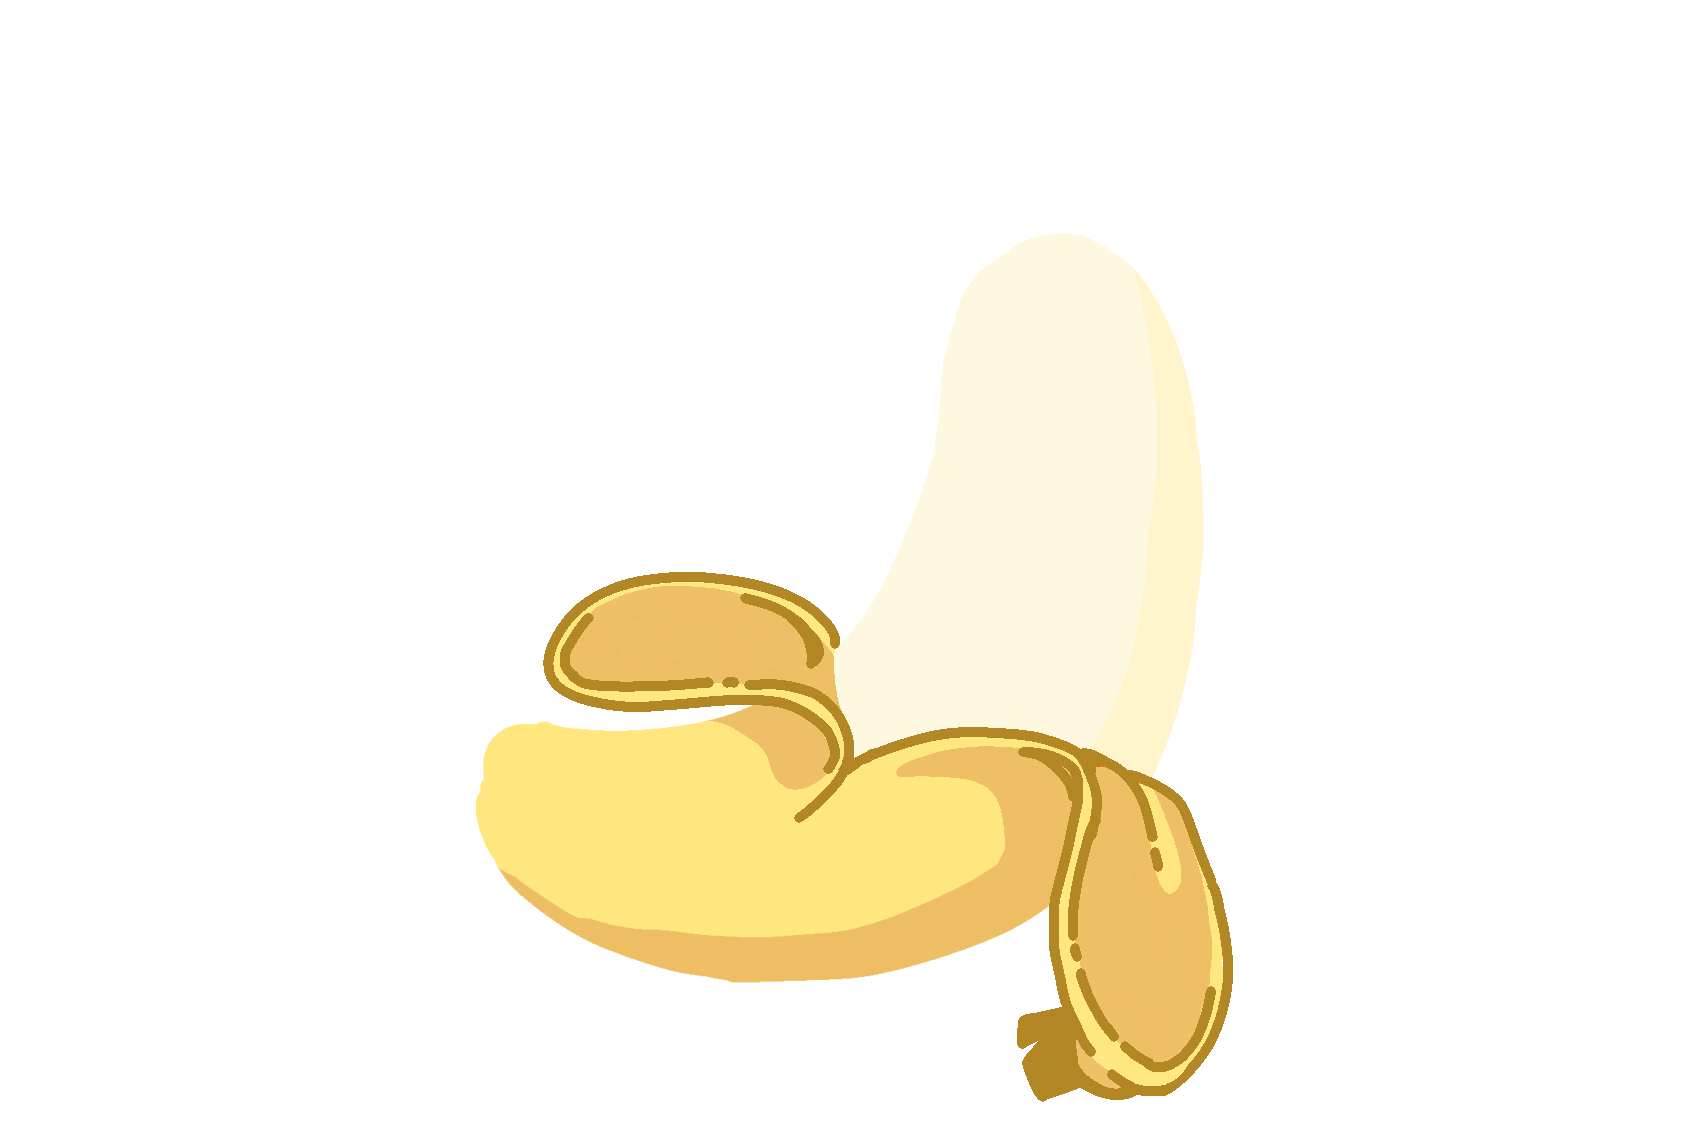
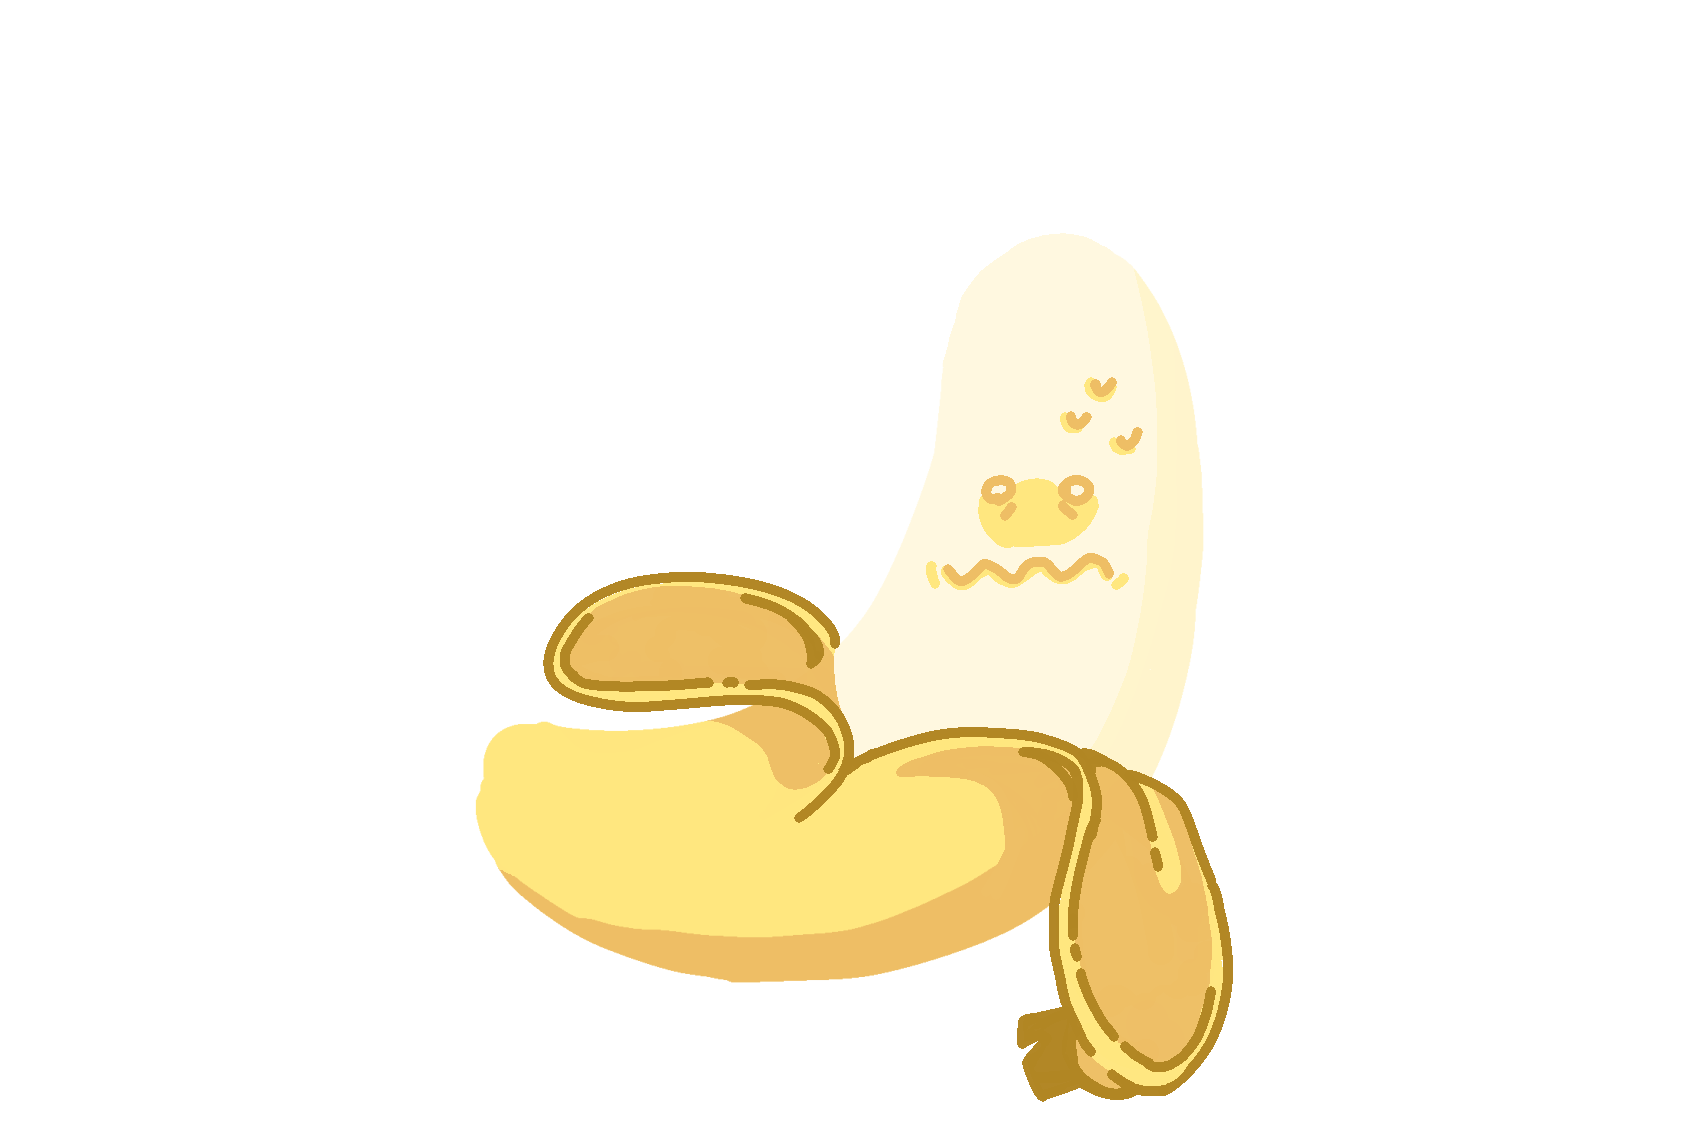
peel face fixed ( needs positioning)

Changed region(s): [[0.5306, 0.3392, 0.6867, 0.5242]]

diff --git a/src/game/scenes/Peel.ts b/src/game/scenes/Peel.ts
@@ -1,6 +1,7 @@
 import { Banana } from './toolbox/Banana';
 import { CookTemplate } from './CookTemplate';
 import { TextStyles } from './toolbox/TextStyles';
+import { Cosmetic } from './toolbox/Cosmetic';
 
 export class Peel extends CookTemplate {
     constructor() {
@@ -37,13 +38,12 @@ export class Peel extends CookTemplate {
     
 
         let banana: Banana = this.registry.get('banana');
-    
-        // if there's no banana in the registry, create a new one
-        if (!banana) {
-            banana = new Banana(this);
-            this.registry.set('banana', banana); // store it in the registry for later use
-        }
 
+       
+        
+   
+    
+     
         // banana frames for peeling
         const bananaFrames = ['banana', 'banana1', 'banana2', 'banana3', 'banana4'];
         let currentFrame = 0;
@@ -89,7 +89,17 @@ export class Peel extends CookTemplate {
                     banana.setScale(1);
         
                     // stop the drag animation once the banana is fully peeled
-                    if (currentFrame === 4) {
+                    if (currentFrame === 1) {
+                        // remove the face cosmetic
+                        console.log("Removing face cosmetic:", banana.getFaceCosmetic());
+                        var noFace: Cosmetic = new Cosmetic("none", 0, -30, 0.2);
+                        banana.setFace(this, noFace, this.bananaContainer); //  empty face
+        
+                        banana.setTexture(bananaFrames[currentFrame]);
+                        banana.setScale(1);
+        
+                    } 
+                    else if (currentFrame === 4) {
                         dragAnimation.stop();
                         dragAnimation.setVisible(false);
                         this.addNextButton(this, 'LightsOff', "Next"); // show next button

diff --git a/src/game/scenes/Personality.ts b/src/game/scenes/Personality.ts
@@ -94,6 +94,15 @@ export class Personality extends CustomizationTemplate{
             ease: 'Sine.easeInOut'
         });
 
+
+        // tank.setInteractive({ draggable: true });
+        // this.input.setDraggable(tank);
+        // tank.on('drag', (pointer: Phaser.Input.Pointer, dragX: number, dragY: number) => {
+        //     tank.x = dragX;
+        //     tank.y = dragY;
+        //     console.log(`Tank position: x=${tank.x}, y=${tank.y}`);
+        // });
+
         
         //check if Personality already selected (used back button)
         var banana = this.registry.get("banana");

diff --git a/src/game/scenes/toolbox/Banana.ts b/src/game/scenes/toolbox/Banana.ts
@@ -128,6 +128,10 @@ export class Banana{
         if(bananaContainer.exists(image)){
             image.destroy();
         };
+
+        if (image) {
+            image.destroy();
+        }
     }
 
 
